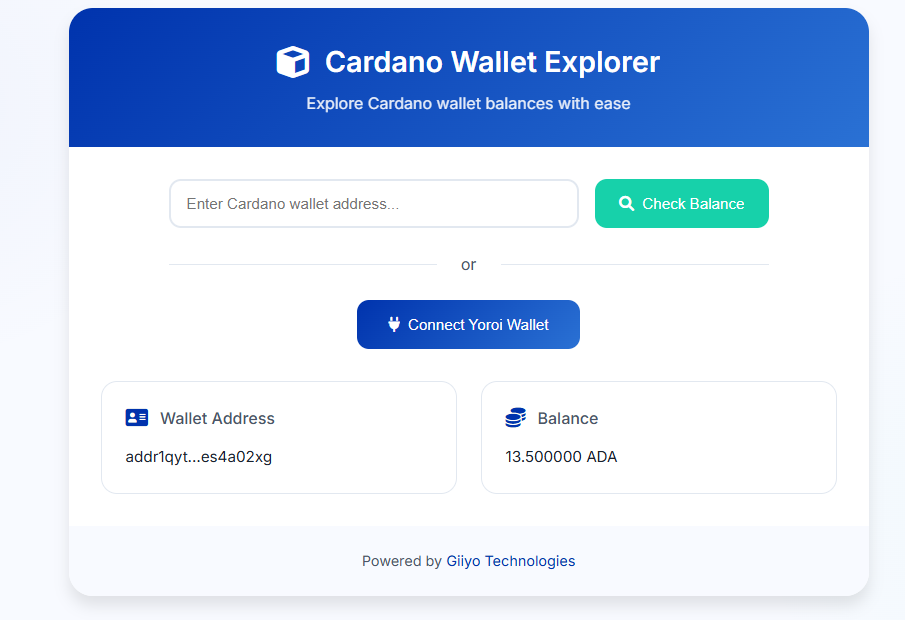
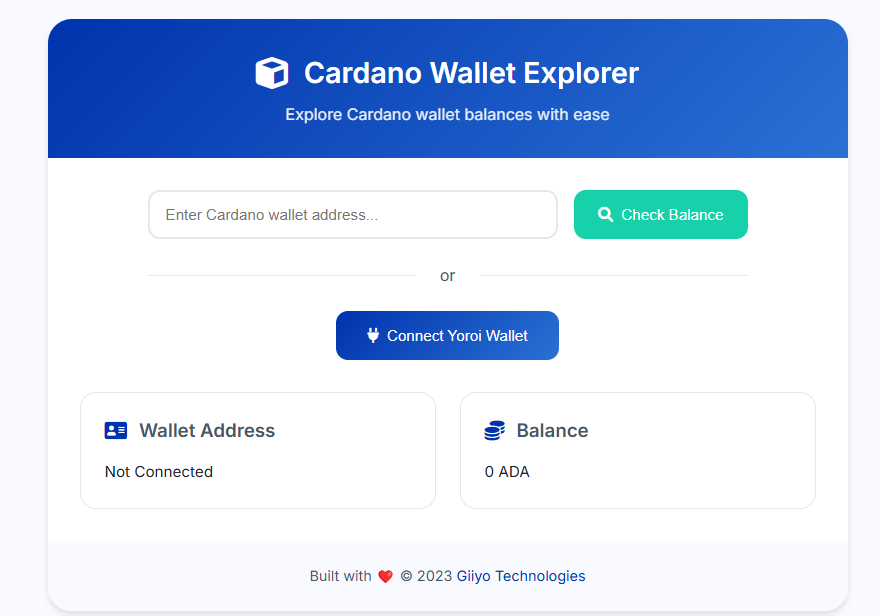
Initial commit: Cardano Wallet Explorer

diff --git a/script.js b/script.js
@@ -1,5 +1,3 @@
-import config from './config.js';
-
 // This function checks if the Yoroi wallet extension is installed
 function checkYoroiInstalled() {
     return window.cardano && window.cardano.yoroi;
@@ -17,9 +15,10 @@ function formatBalance(lovelaceBalance) {
 // Fetch wallet balance using Blockfrost API
 async function checkWalletBalance(address) {
     try {
-        const response = await fetch(`${config.BLOCKFROST_URL}/addresses/${address}`, {
+        const API_KEY = 'mainnet8npKlGfk52Wz0Q4tKYNQdi4z8JUchu06';
+        const response = await fetch(`https://cardano-mainnet.blockfrost.io/api/v0/addresses/${address}`, {
             headers: {
-                'project_id': config.BLOCKFROST_API_KEY
+                'project_id': API_KEY
             }
         });
 

diff --git a/index.html b/index.html
@@ -65,9 +65,9 @@
         </main>
 
         <footer class="app-footer">
-            <p>Powered by <a href="https://giiyo.com" target="_blank" rel="noopener">Giiyo Technologies</a></p>
+            <p>Built with ❤ &copy; 2023 <a href="https://giiyo.com" target="_blank" rel="noopener">Giiyo Technologies</a></p>
         </footer>
     </div>
-    <script type="module" src="script.js"></script>
+    <script src="script.js"></script>
 </body>
 </html>
